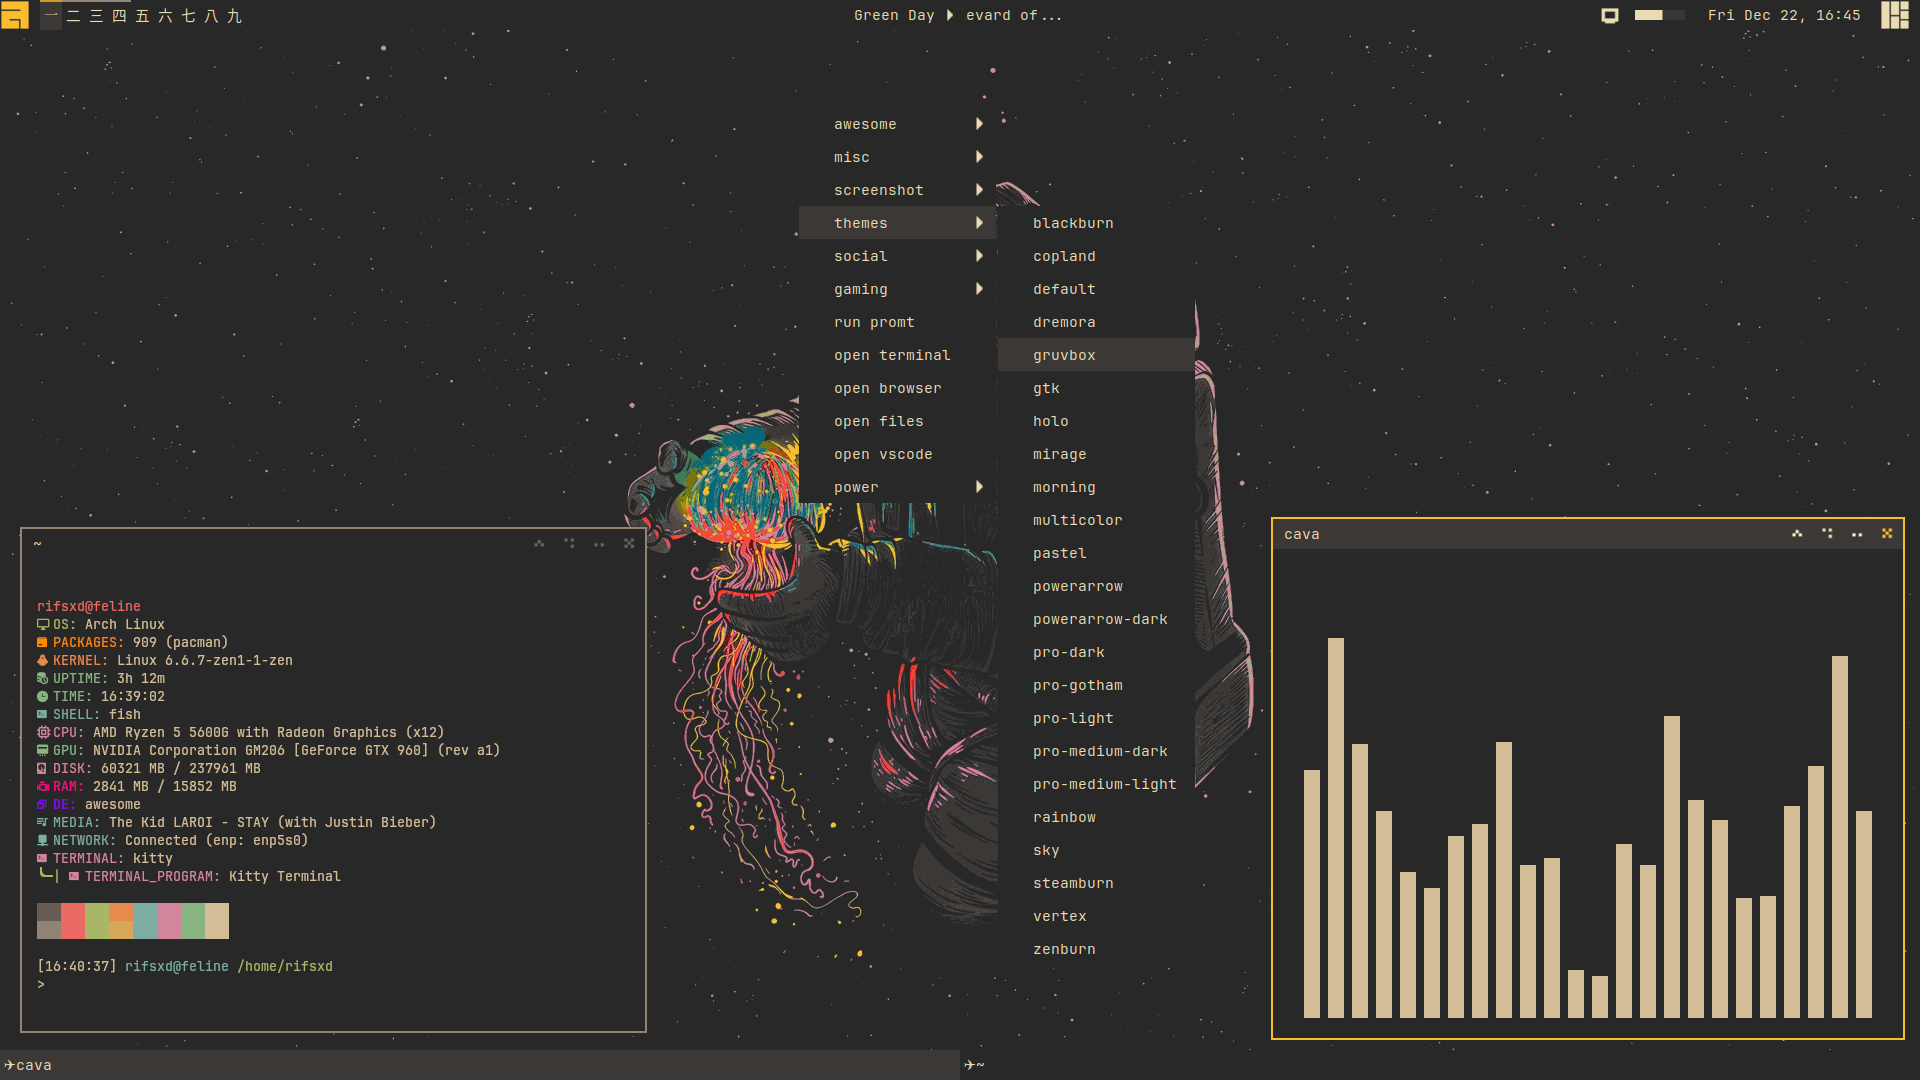
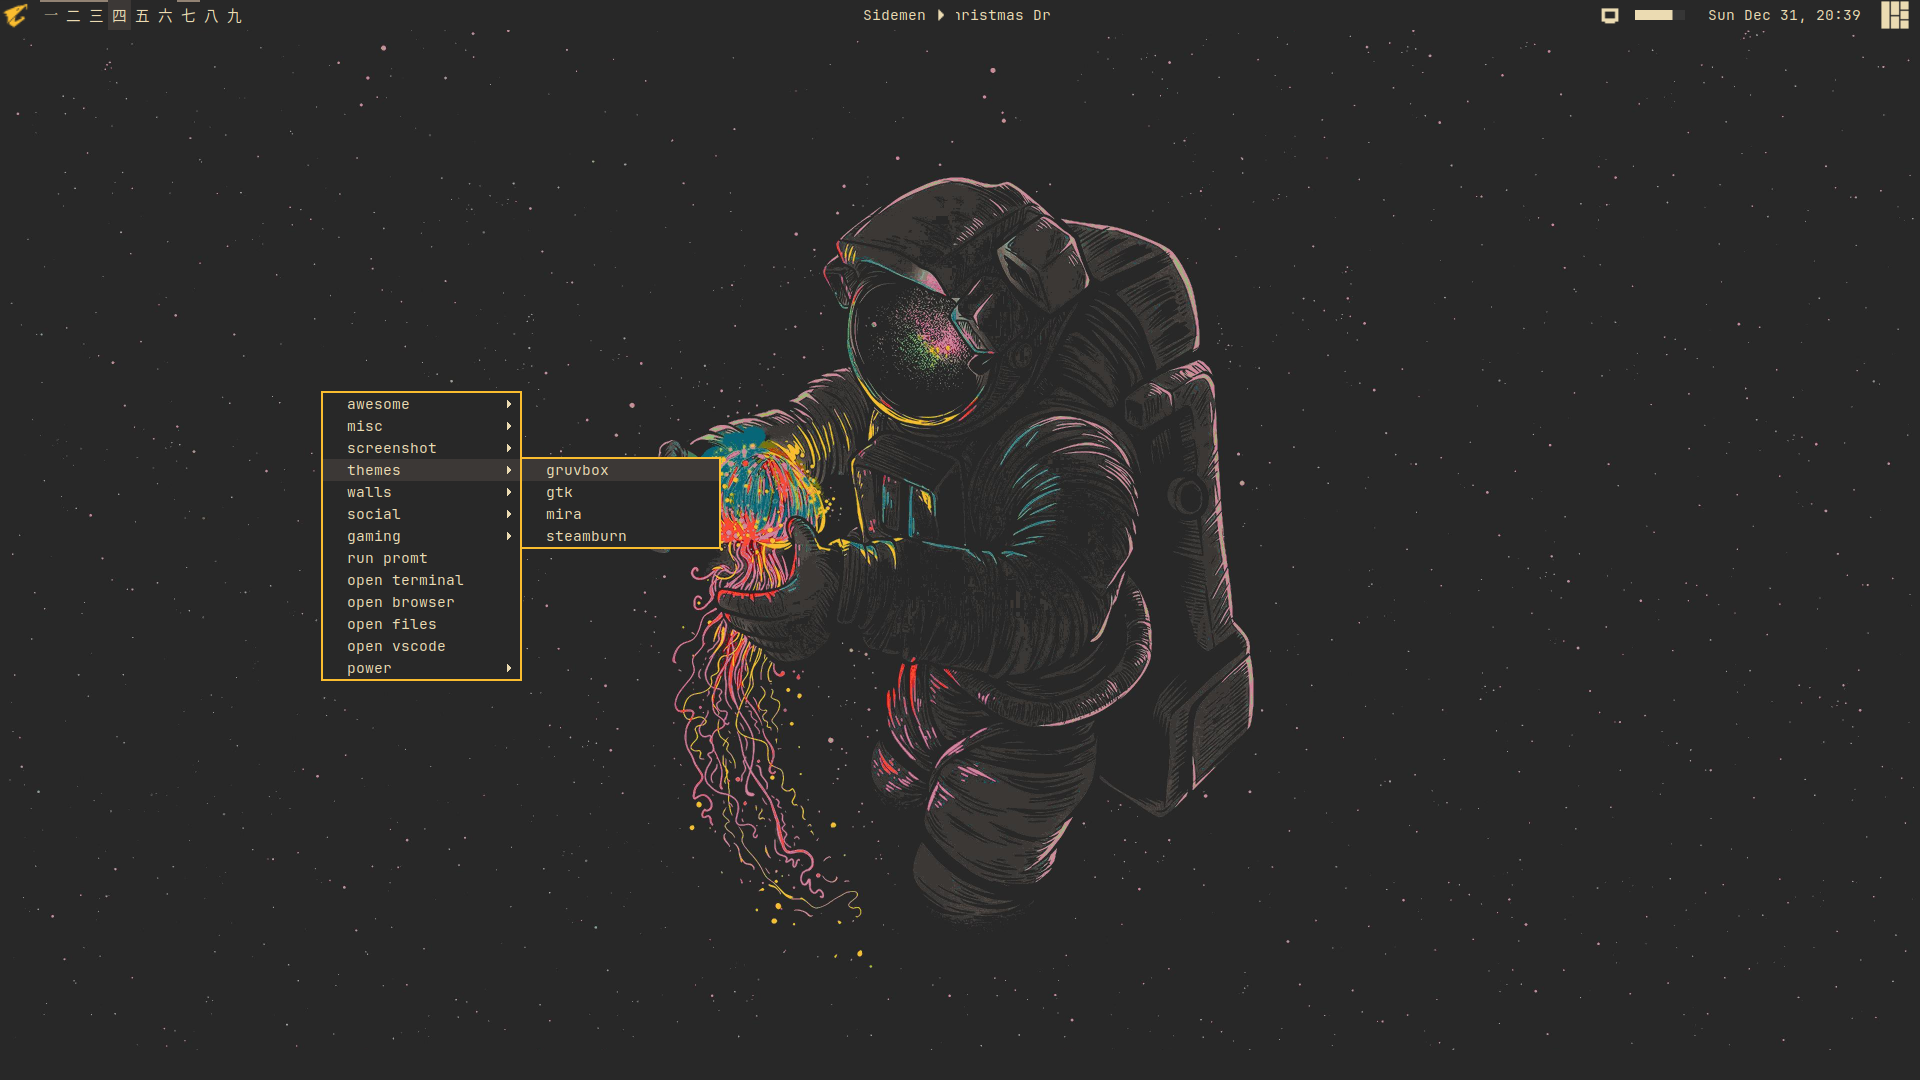
new previews

diff --git a/README.md b/README.md
@@ -1,17 +1,5 @@
 # oh-my-awesomewm-dots
  warm & comfy awm+widgets+themes rice
- 
- * Blackburn
- <img src="/assets/blackburn.png">
-
- * Copland
- <img src="/assets/copland.png">
- 
- * Default
- <img src="/assets/default.png">
-
- * Gremore
- <img src="/assets/gremore.png">
 
  * Gruvbox
  <img src="/assets/gruvbox.png">
@@ -19,54 +7,9 @@
  * Gtk
  <img src="/assets/gtk.png">
  
- * Holo
- <img src="/assets/holo.png">
- 
  * Mirage
  <img src="/assets/mirage.png">
  
- * Morning
- <img src="/assets/morning.png">
- 
- * Multicolor
- <img src="/assets/multicolor.png">
- 
- * Pastel
- <img src="/assets/pastel.png">
- 
- * Powerarrow
- <img src="/assets/powerarrow.png">
- 
- * Powerarrow-Dark
- <img src="/assets/powerarrow-dark.png">
- 
- * Pro-Dark
- <img src="/assets/pro-dark.png">
- 
- * Pro-Gotham
- <img src="/assets/pro-gotham.png">
- 
- * Pro-Light
- <img src="/assets/pro-light.png">
- 
- * Pro-Medium-Dark
- <img src="/assets/pro-medium-dark.png">
- 
- * Pro-Medium-Light
- <img src="/assets/pro-medium-light.png">
- 
- * Rainbow
- <img src="/assets/rainbow.png">
-
- * Sky
- <img src="/assets/sky.png">
- 
  * Steamburn
  <img src="/assets/steamburn.png">
- 
- * Vertex
- <img src="/assets/vertex.png">
- 
- * Zenburn
- <img src="/assets/zenburn.png">
  
